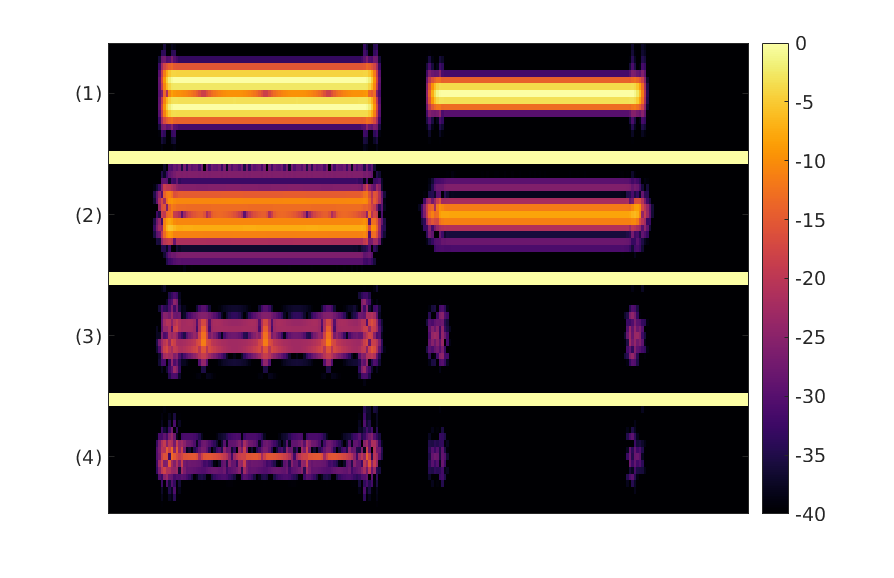
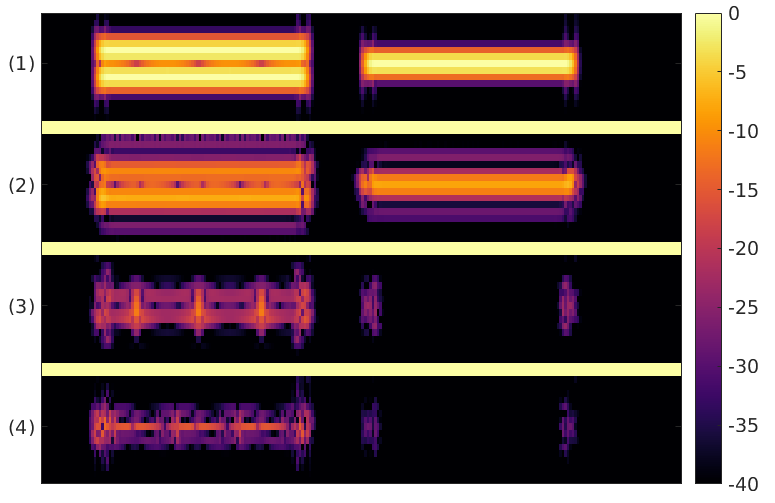
modified sines image

diff --git a/index.html b/index.html
@@ -155,7 +155,7 @@ The network trained to generate log-magnitudes will be referred to as TiFGAN-M. 
     <div class="w3-twothird">
       <h1>Different phase recovery strategies</h1>
 
-        <h1><img src="images/sines_phases.png" alt="Trumpet" width=100%></h1>
+        <h1><img src="images/sines_phases.png" alt="Trumpet" width=90%></h1>
          <h6>Overview of spectral changes resulting from different phase reconstruction methods. (1) Original log-magnitude, (2-4) log-magnitude differences between original and signals restored with (2) cumulative sum along channels (initialized with zeros), (3) PGHI from phase derivatives (4) PGHI from magnitude only and phase estimated from the phase-magnitude relations.</h6>
 
          <h5>
